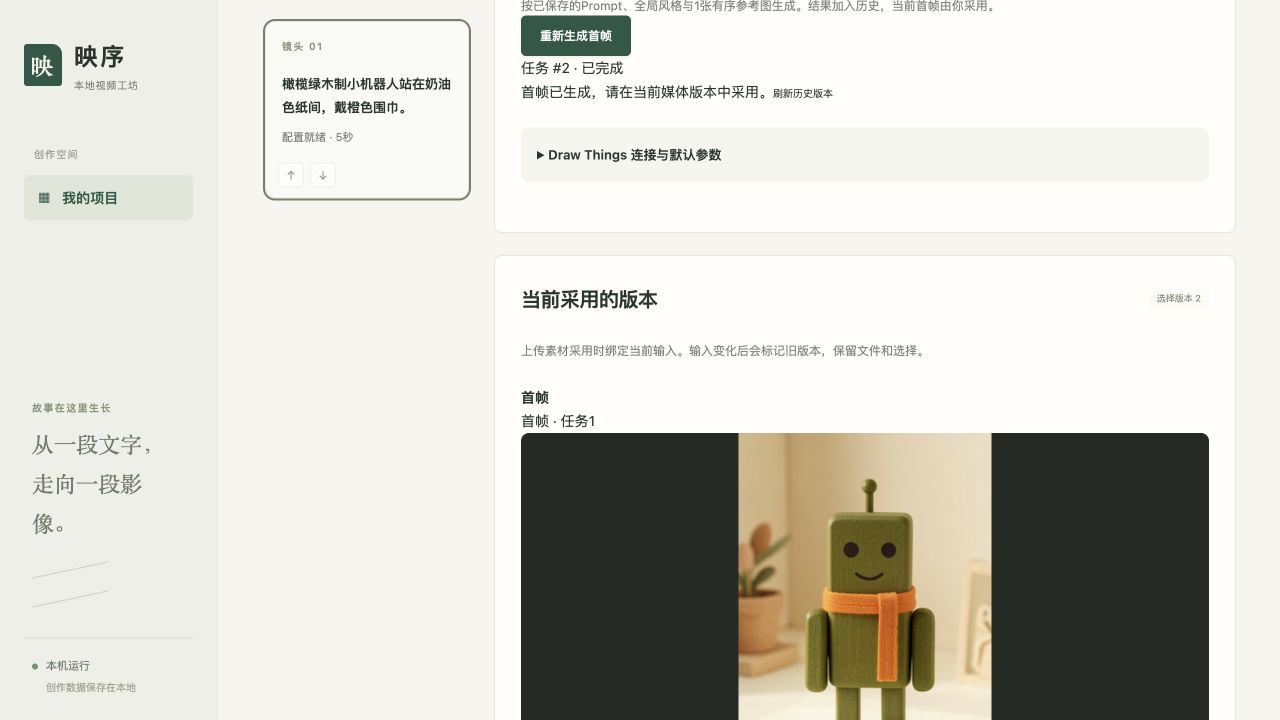
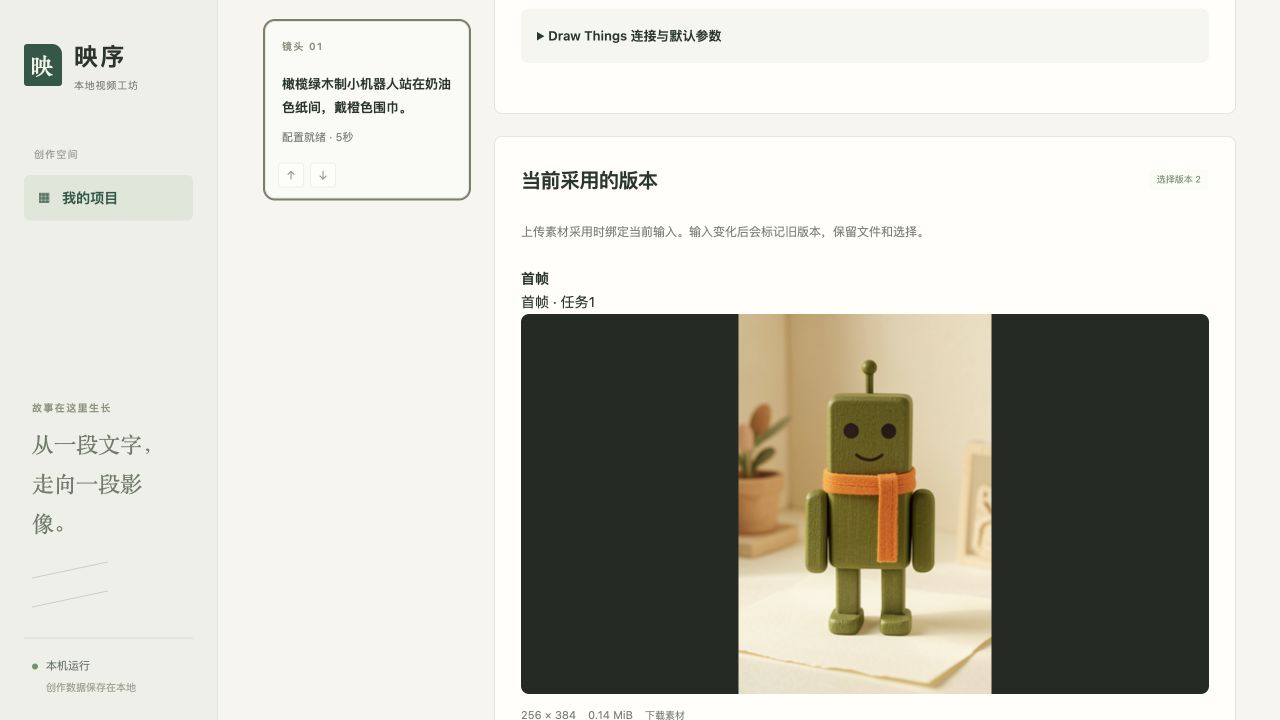
docs: record M5 acceptance evidence and delivery

diff --git a/docs/M5首帧生成验收.md b/docs/M5首帧生成验收.md
@@ -2,6 +2,8 @@
 
 状态：实现、独立审查修正与回归完成，待用户验收。范围为任务9；M2已获本轮用户验收，M6尚未开始。
 
+交付分支 `codex/m5-first-frames`，草稿 [PR #5](https://github.com/yyl1212/video_maker/pull/5) 依赖尚未合并的M2 / PR #4，未自动合并。
+
 ## 方案与文件
 
 新增 `backend/app/clients/drawthings.py`、`backend/app/services/generation.py`、图像生成请求契约、前端 `ImageGenerationPanel.tsx` 和连接配置组件，以及对应后端与前端测试。修改分镜生成路由、默认处理器注册、连接检查、图像输入指纹和 OpenAPI 类型；沿用资产发布、任务锁、轮询和显式采用接口，无数据库迁移。
@@ -38,7 +40,7 @@ flowchart TD
 - 参考顺序、角色用途、asset_id、原图SHA和冻结路径保存到生成Asset元数据，实际flatbuffer的seed0/false/尺寸与多参考顺序有协议断言。
 - 自制参考：[图片](images/m5-reference.png)；实际生成：[首帧](images/m5-first-frame.png)；界面证据：[工作台截图](images/m5-workbench.png)。图片仅为技术链路验收，最终审美由用户决定。
 - 验收数据位于忽略目录 `.superpowers/m5-preview-data`，正式 `data/` 未写入演示数据；没有迁移旧数据。
-- 后端完整回归101项通过（最后6.79秒）；前端39项通过；TypeScript严格检查、ESLint、Prettier、Ruff及格式检查通过。生产构建在交付前再次验证。
+- 后端完整回归101项通过（最后6.79秒）；前端39项通过；TypeScript严格检查、ESLint、Prettier、Ruff及格式检查通过。最终生产构建通过，真实Next→FastAPI来源边界通过；最终页面连接配置保存成功，控制台无warning/error。
 - 22项新增后端测试覆盖实际flatbuffer、顺序、false/0、真实截止、连接失败、空结果、写盘失败、发布提交故障与恢复、版本过期及选择不变；7项新增前端测试覆盖提交、重复意图、鉴权失败、草稿、连接设置、冲突和恢复限制。
 - 独立整分支审查：1项Important，已用失败回归修正。提交响应丢失后遇到token过期403，不再删除原意图；恢复会话继续使用原key、版本和指纹，只创建一个任务。无Critical、Minor及额外待裁决项；修正后完整测试通过，不重复委派审查。
 - 首轮全量回归的旧M1“generation=false”断言随真实能力更新；该轮在心跳等待处停滞后于129秒主动中断，未复现于随后两轮完整回归（101项，6.70/6.79秒）。后续检查使用固定截止，不修改任务引擎来规避测试。
@@ -50,3 +52,8 @@ flowchart TD
 3. 首版限定已验证的Klein 9B配置；代价为其他模型暂不可生成，需另加验证过的profile。
 
 延后Minor：无。
+
+
+## 交付位置
+
+任务9最终针对性回归22项通过（1.07秒）。总进度：已实现8/12、已验收7/12；M5等待用户验收。任务10 / M6须获得下一次开工确认。所有兼容性裁决已纳入本记录，开发台账临时目录在收尾时清理。

diff --git a/docs/superpowers/plans/2026-10-25-agile-delivery.md b/docs/superpowers/plans/2026-10-25-agile-delivery.md
@@ -92,7 +92,7 @@ US08跨迭代仅表示验收分层，不重复计算任务完成数；故事在S
 | 用户故事 | 已验收5 / 14；US01至US05 | US06真实生图已演示，随M5验收；US08待S3音画闭环 |
 | 当前开发中 | 无；M5待用户验收 | 确认后再进入M6 |
 
-本轮证据：[M5首帧验收记录](../../M5首帧生成验收.md)。任务9于2026-10-25开工，真实本机256×384首帧和界面采用/重生成/刷新恢复均已演示，已完成整分支审查修正与回归，待用户验收。此前[M2 / PR #4](https://github.com/yyl1212/video_maker/pull/4)、[M3 / PR #3](https://github.com/yyl1212/video_maker/pull/3)、[M1 / PR #2](https://github.com/yyl1212/video_maker/pull/2)均已获用户验收。
+本轮证据：[M5首帧验收记录](../../M5首帧生成验收.md)、[草稿PR #5](https://github.com/yyl1212/video_maker/pull/5)。任务9于2026-10-25开工，真实本机256×384首帧和界面采用/重生成/刷新恢复均已演示，已完成整分支审查修正与回归，待用户验收。此前[M2 / PR #4](https://github.com/yyl1212/video_maker/pull/4)、[M3 / PR #3](https://github.com/yyl1212/video_maker/pull/3)、[M1 / PR #2](https://github.com/yyl1212/video_maker/pull/2)均已获用户验收。
 
 实际工作开始后，每个任务维护：任务ID、状态、开始/完成时间、验收证据、MR/PR、阻塞原因和下一动作。若需要多人协作，再由用户指定负责人；目前不虚构团队分工。
 
